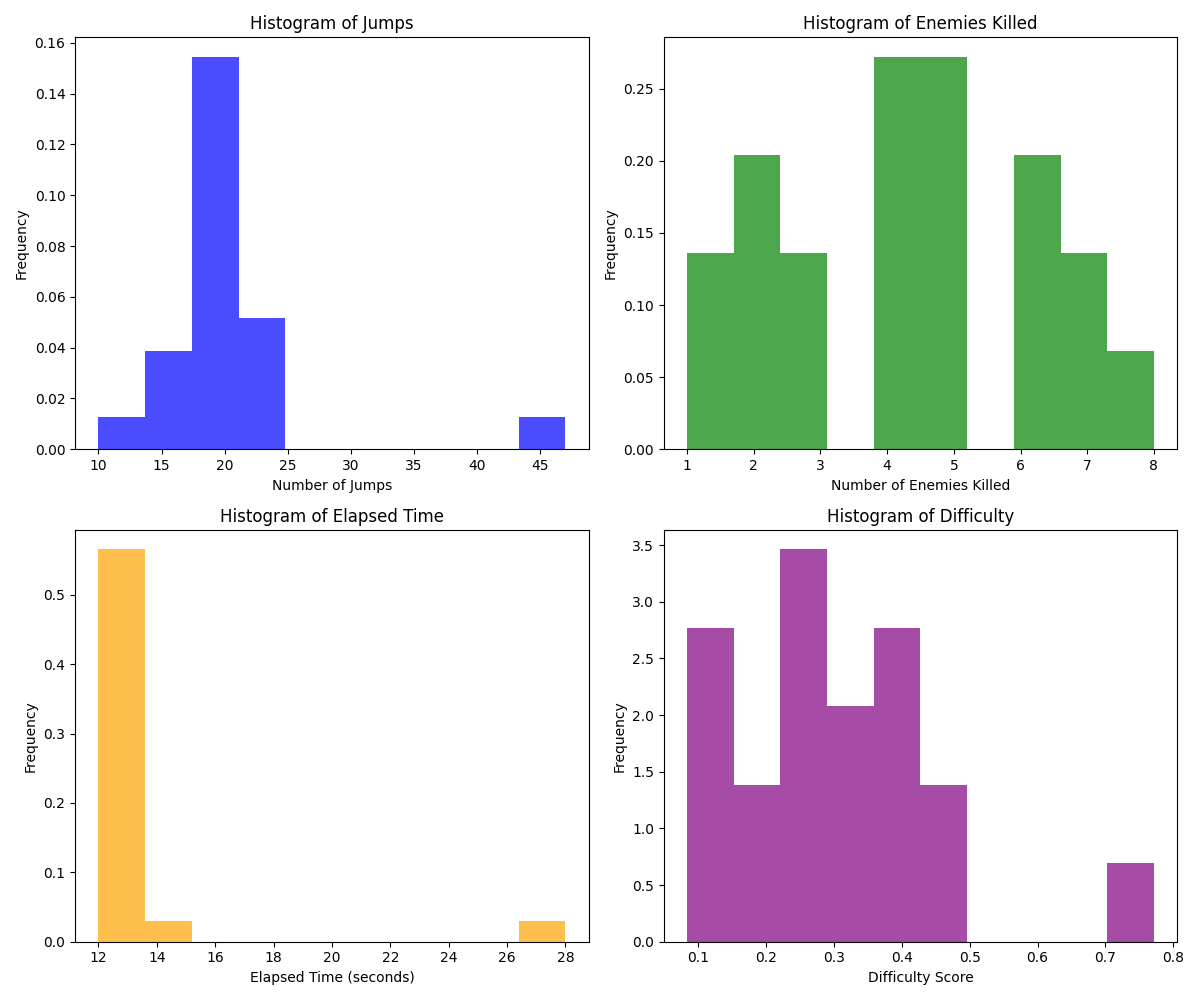
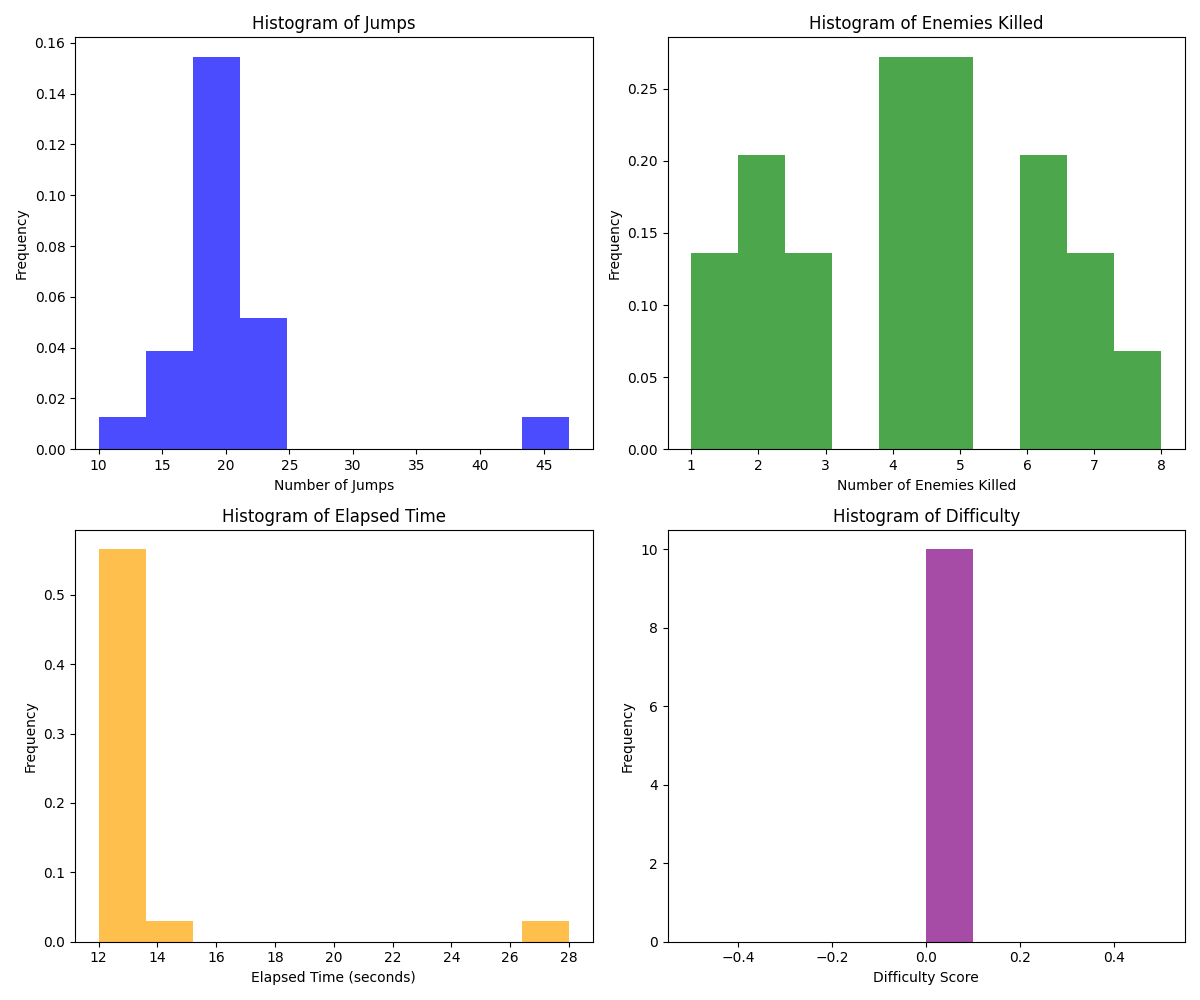
feat: update requirements and add normalized covariance matrices for game statistics

diff --git a/src/utils/logs_statistics.py b/src/utils/logs_statistics.py
@@ -3,6 +3,7 @@ import pprint
 import typing
 import matplotlib.pyplot as plt
 import numpy as np
+import pandas as pd
 
 Logs2D = typing.TypedDict('Logs2D', {
   'map_samples': typing.List[str],
@@ -294,7 +295,7 @@ def convert_log (file, type = 'sample') -> Logs2D:
         case string if string.find('Remaining Time') != -1:
           map_time = 60 if type == 'sample' else 120
           object_logs['remaining_time'] = line.split(':')[1].strip()
-          object_logs['elapsed_time'] = map_time - float(line.split(':')[1].strip())
+          object_logs['elapsed_time'] = map_time - int(line.split(':')[1].strip())
         case string if string.find('Lives') != -1:
           object_logs['lives'] = line.split(':')[1].strip()
         case string if string.find('Coins') != -1:
@@ -532,10 +533,10 @@ def calculate_statistics(logs: dict):
 def get_data_to_histogram(logs: dict):
   logs_difficulty = find_difficulty(logs)
   
-  jumps_values = [float(log['jumps']) for log in logs_difficulty.values()]
-  enemies_killed_values = [float(log['total_kills']) for log in logs_difficulty.values()]
-  difficulty_values = [float(log['difficulty']) for log in logs_difficulty.values()]
-  time_values = [float(log['elapsed_time']) for log in logs_difficulty.values()]
+  jumps_values = [int(log['jumps']) for log in logs_difficulty.values()]
+  enemies_killed_values = [int(log['total_kills']) for log in logs_difficulty.values()]
+  difficulty_values = [int(log['difficulty']) for log in logs_difficulty.values()]
+  time_values = [int(log['elapsed_time']) for log in logs_difficulty.values()]
   
   return {
     'jumps': jumps_values,
@@ -586,8 +587,33 @@ def covariance_matrix(logs: dict, path: str):
   # Create a covariance matrix
   covariance_matrix = np.cov(x)
   
-  # Save the covariance matrix as a CSV file
-  np.savetxt(path, covariance_matrix, delimiter=',')
+  # Add labels to the covariance matrix
+  column_labels = ['Jumps', 'Enemies Killed', 'Difficulty', 'Time']
+  row_labels = ['Jumps', 'Enemies Killed', 'Difficulty', 'Time']
+  
+  # Create a DataFrame from the covariance matrix
+  df = pd.DataFrame(covariance_matrix, columns=column_labels, index=row_labels)
+  
+  # Save the DataFrame to a CSV file
+  df.to_csv(path, index=False)
+  
+def normalized_covariance_matrix(logs: dict, path: str):
+  histogram_data = get_data_to_histogram(logs)
+  x = np.array([histogram_data['jumps'], histogram_data['enemies_killed'], histogram_data['difficulty'], histogram_data['time']])
+
+  # Create a covariance matrix
+  covariance_matrix = np.corrcoef(x)
+
+  # Add labels to the normalized covariance matrix
+  column_labels = ['Jumps', 'Enemies Killed', 'Difficulty', 'Time']
+  row_labels = ['Jumps', 'Enemies Killed', 'Difficulty', 'Time']
+
+  # Create a DataFrame from the normalized covariance matrix
+  df = pd.DataFrame(covariance_matrix, columns=column_labels, index=row_labels)
+
+  # Save the DataFrame to a CSV file
+  df.to_csv(path, index=False)
+  
 
 for dir in os.listdir(file_path):
   if dir.startswith(files_version):
@@ -686,6 +712,14 @@ all_samples_selection_covariance_matrix = covariance_matrix(selection_generation
 all_samples_gan_covariance_matrix = covariance_matrix(gan_generation_logs['levels_all_samples'], covariance_matrices_folder + '/all_samples_gan_covariance_matrix.csv')
 winnable_samples_selection_covariance_matrix = covariance_matrix(selection_generation_logs['levels_winnable_samples'], covariance_matrices_folder + '/winnable_samples_selection_covariance_matrix.csv')
 winnable_samples_gan_covariance_matrix = covariance_matrix(gan_generation_logs['levels_winnable_samples'], covariance_matrices_folder + '/winnable_samples_gan_covariance_matrix.csv')
+
+# Save normalized covariance matrices
+normalized_covariance_matrices_folder = 'src/data/mario/results/db-mine_nz-32_tiles-10_ngf-64_ndf-64_wgan-mine_v-2/statistics/normalized_covariance_matrices'
+
+all_samples_selection_normalized_covariance_matrix = normalized_covariance_matrix(selection_generation_logs['levels_all_samples'], normalized_covariance_matrices_folder + '/all_samples_selection_normalized_covariance_matrix.csv')
+all_samples_gan_normalized_covariance_matrix = normalized_covariance_matrix(gan_generation_logs['levels_all_samples'], normalized_covariance_matrices_folder + '/all_samples_gan_normalized_covariance_matrix.csv')
+winnable_samples_selection_normalized_covariance_matrix = normalized_covariance_matrix(selection_generation_logs['levels_winnable_samples'], normalized_covariance_matrices_folder + '/winnable_samples_selection_normalized_covariance_matrix.csv')
+winnable_samples_gan_normalized_covariance_matrix = normalized_covariance_matrix(gan_generation_logs['levels_winnable_samples'], normalized_covariance_matrices_folder + '/winnable_samples_gan_normalized_covariance_matrix.csv')
 
 
         
